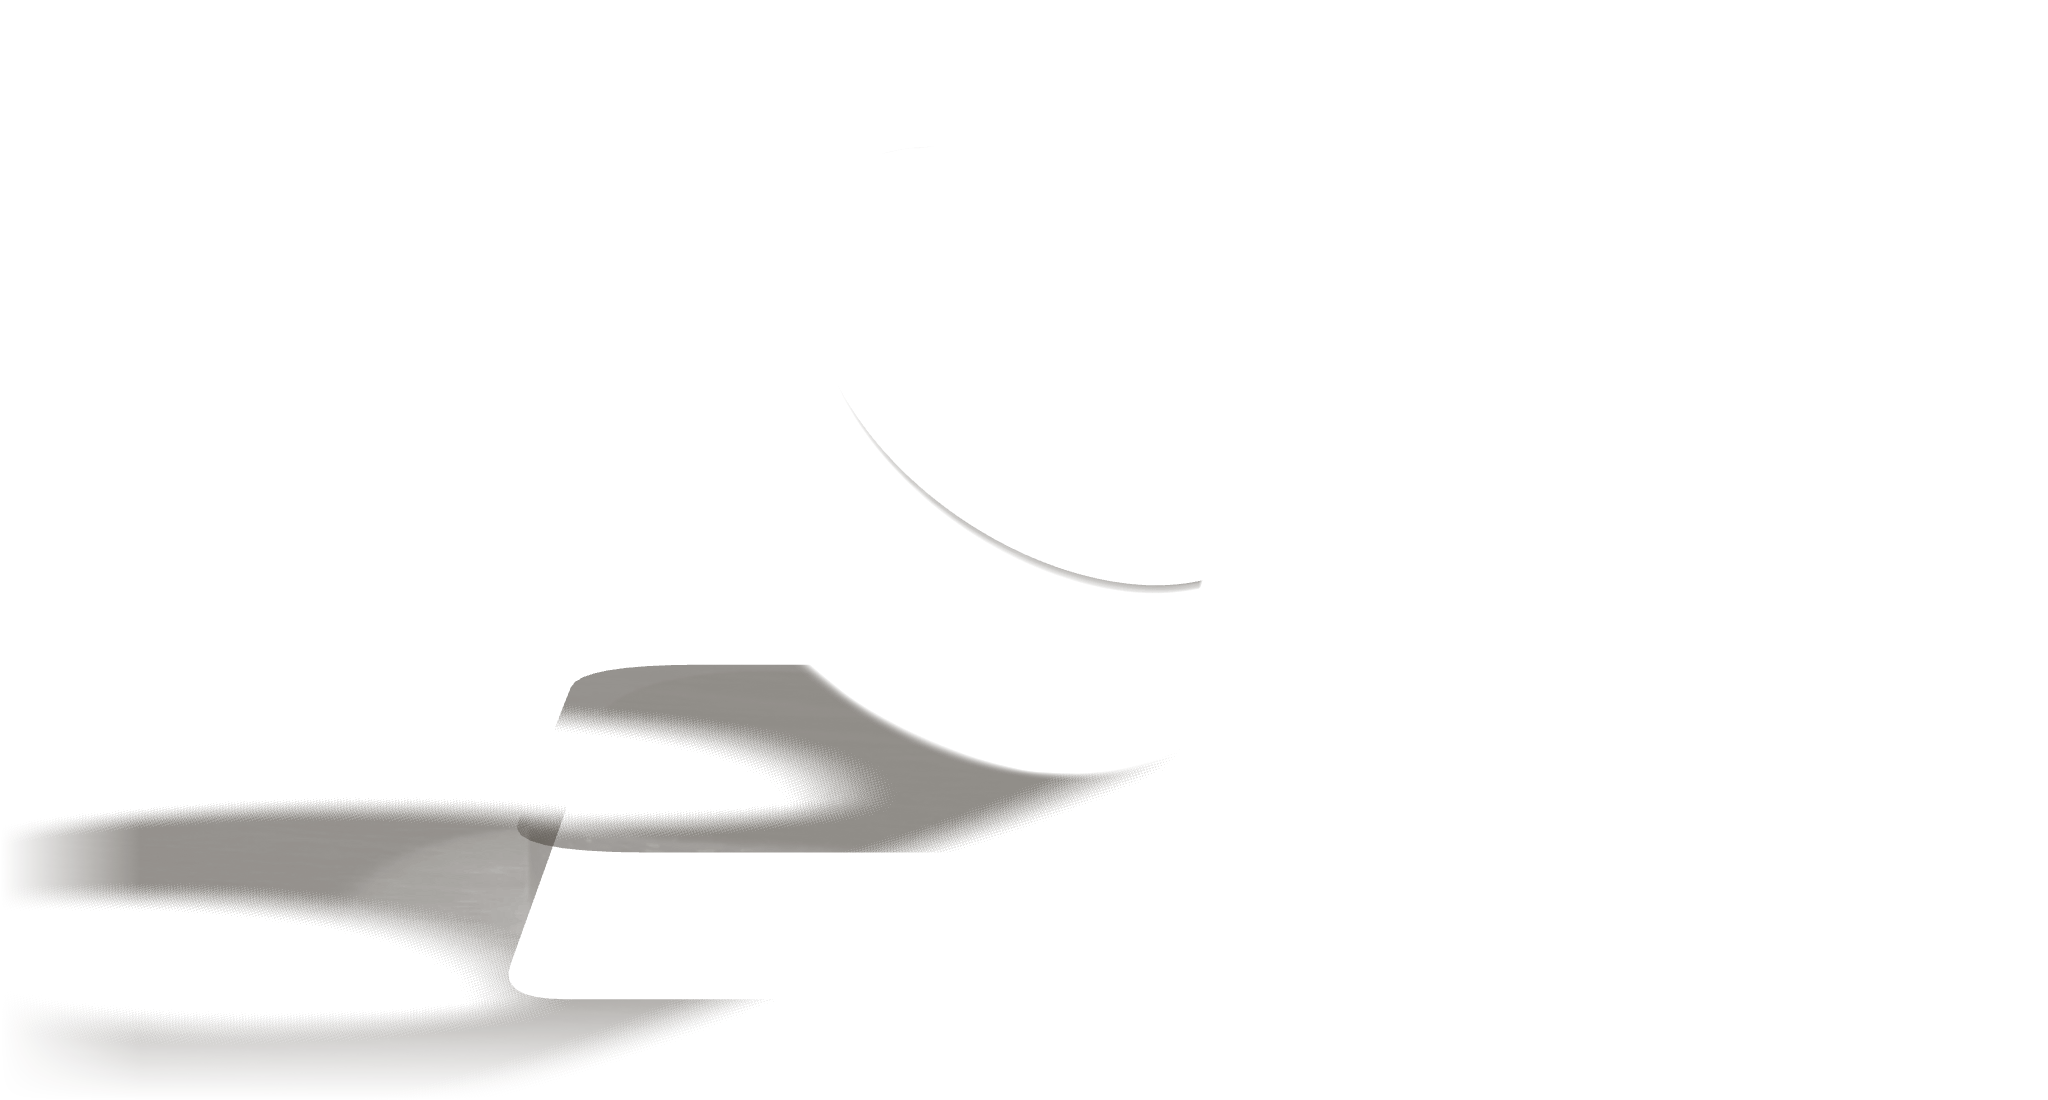
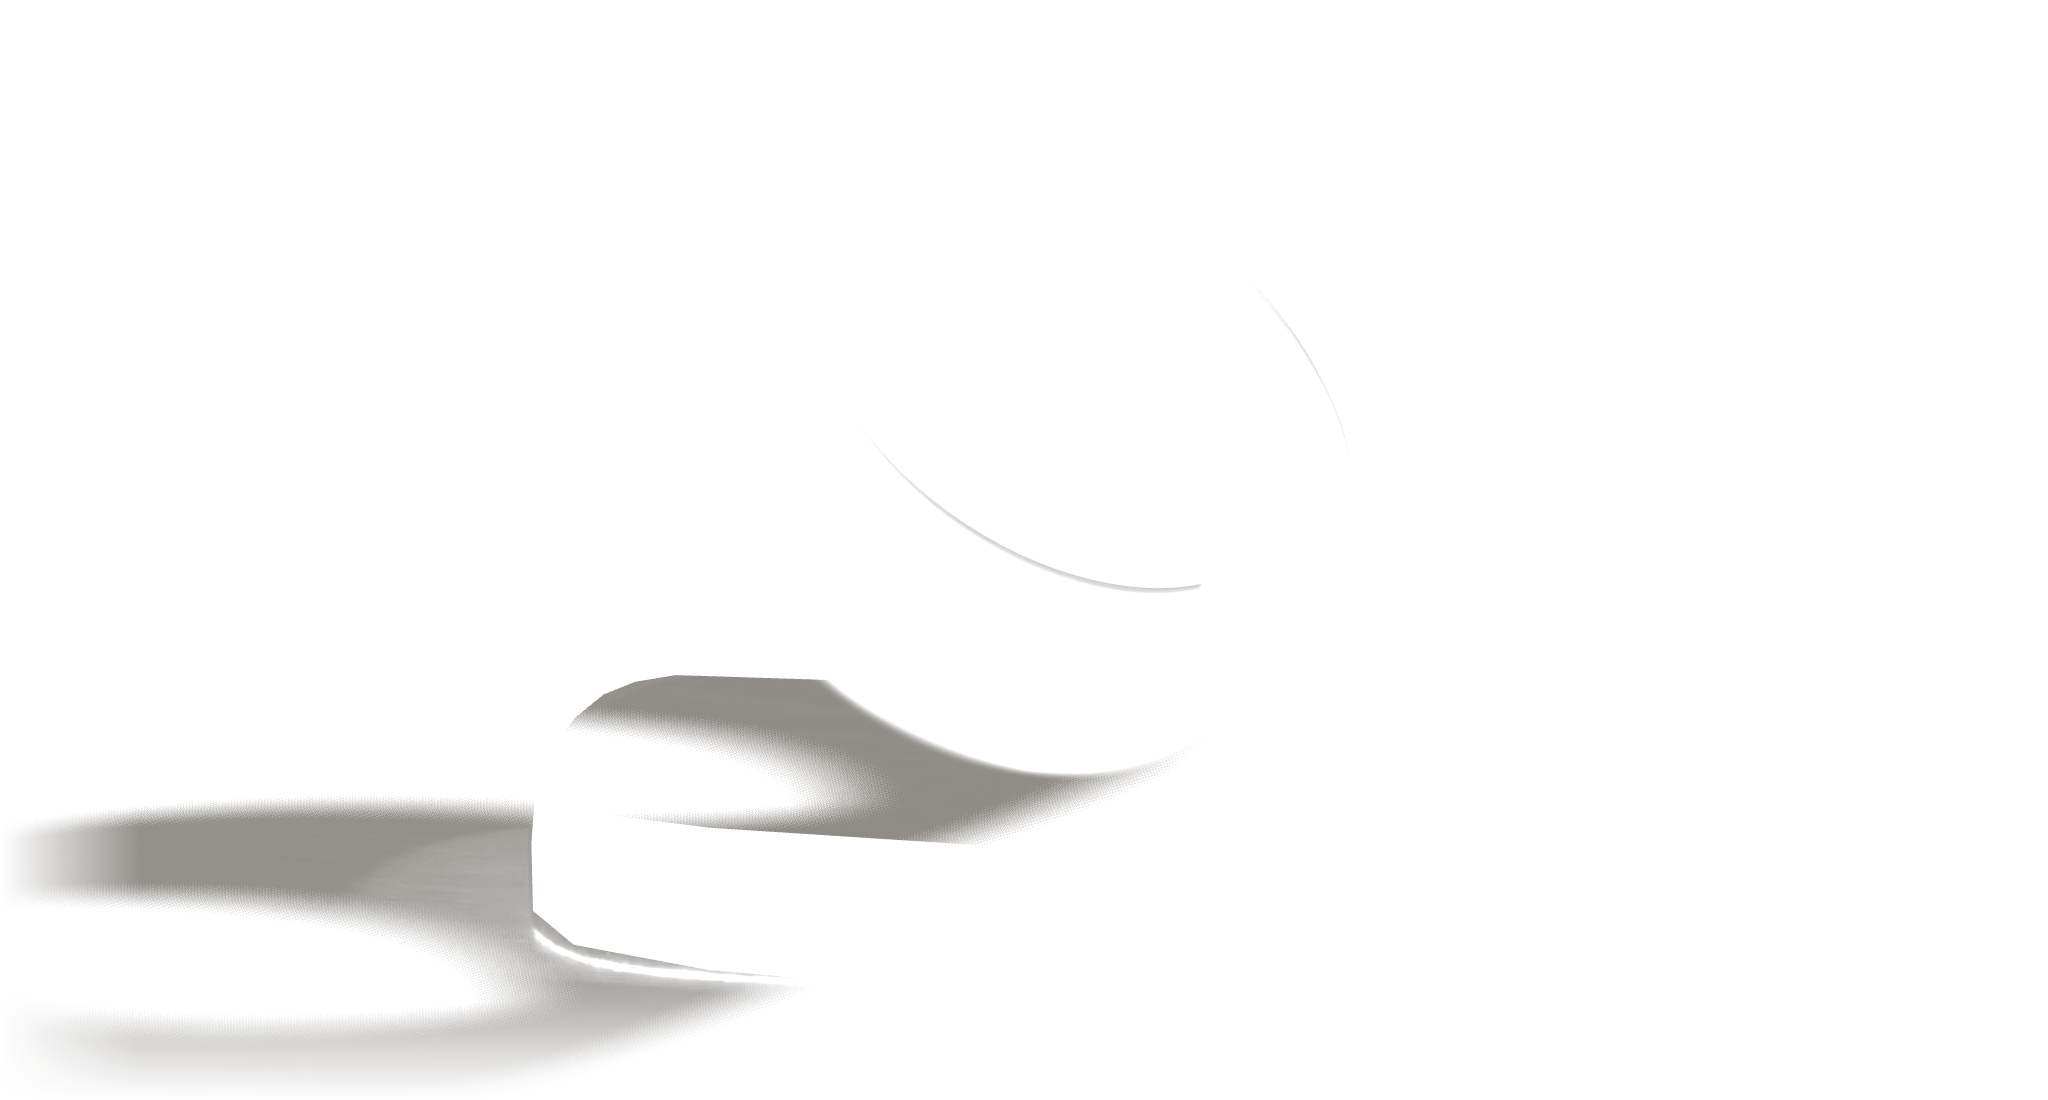
fix(web-v2): D-178 hero shadow — receivers masked by the pedestal's outline traced from the photo
The PM review found a hard rectangular/diagonal patch above-left of the
pedestal: the top receiver was a rounded rectangle on a tilted plane,
which does not match the photo's perspective outline, so it spilled past
the real top-left corner onto the desk. Now both receivers (pedestal top
plane, desk plane one pedestal height lower) are large planes limited in
screen space by stencil masks traced from the photo (heroBg.pedestal.top
and .body): shadow on the top face only inside the top outline, on the
desk only outside the silhouette, none on the visible sides. Masks
follow the photo's cover size and zoom. Fallback shadow still re-rendered
from the new pass.

diff --git a/web-v2/src/scripts/ring/stage.ts b/web-v2/src/scripts/ring/stage.ts
@@ -16,6 +16,7 @@ import { DRACOLoader } from 'three/examples/jsm/loaders/DRACOLoader.js';
 import { EXRLoader } from 'three/examples/jsm/loaders/EXRLoader.js';
 import { RING_MODEL } from './model';
 import type { Pose } from './poses';
+import { heroBg } from '../../content/heroBg';
 
 const FOV = 30;
 
@@ -31,7 +32,7 @@ export interface RingStage {
 export async function createRingStage(canvas: HTMLCanvasElement): Promise<RingStage | null> {
   let renderer: THREE.WebGLRenderer;
   try {
-    renderer = new THREE.WebGLRenderer({ canvas, antialias: true, alpha: true, powerPreference: 'high-performance' });
+    renderer = new THREE.WebGLRenderer({ canvas, antialias: true, alpha: true, stencil: true, powerPreference: 'high-performance' });
   } catch {
     return null;
   }
@@ -164,62 +165,65 @@ export async function createRingStage(canvas: HTMLCanvasElement): Promise<RingSt
   shadowSun.shadow.bias = -0.0005;
   scene.add(shadowSun, shadowSun.target);
   const catcherMat = new THREE.ShadowMaterial({ color: 0x1c140b, opacity: 0, transparent: true, depthWrite: false });
-  // D-177: a rounded rectangle like the pedestal top (unit size, scaled per frame), so the shadow
-// stops at the pedestal's own edges
-const catcherShape = (() => {
-  const r = 0.14;
-  const sh = new THREE.Shape();
-  sh.moveTo(-0.5 + r, -0.5);
-  sh.lineTo(0.5 - r, -0.5);
-  sh.quadraticCurveTo(0.5, -0.5, 0.5, -0.5 + r);
-  sh.lineTo(0.5, 0.5 - r);
-  sh.quadraticCurveTo(0.5, 0.5, 0.5 - r, 0.5);
-  sh.lineTo(-0.5 + r, 0.5);
-  sh.quadraticCurveTo(-0.5, 0.5, -0.5, 0.5 - r);
-  sh.lineTo(-0.5, -0.5 + r);
-  sh.quadraticCurveTo(-0.5, -0.5, -0.5 + r, -0.5);
-  return new THREE.ShapeGeometry(sh, 8);
-})();
-const catcher = new THREE.Mesh(catcherShape, catcherMat);
+  /* D-178: two shadow receivers — the pedestal's top plane and the desk plane one pedestal height
+     lower, both large — limited in SCREEN space by stencil masks traced from the photo
+     (heroBg.pedestal): the top receiver draws only inside the top face, the desk receiver only
+     outside the pedestal's silhouette, the visible sides get neither. So the shadow follows the
+     photo's own outline: it runs over the top and on down onto the desk, with no patch or double. */
+  const stencilTest = (m: THREE.Material, ref: number) => {
+    m.stencilWrite = true; // enables the stencil test
+    m.stencilRef = ref;
+    m.stencilFunc = THREE.EqualStencilFunc;
+    m.stencilFail = THREE.KeepStencilOp;
+    m.stencilZFail = THREE.KeepStencilOp;
+    m.stencilZPass = THREE.KeepStencilOp;
+  };
+  const catcher = new THREE.Mesh(new THREE.PlaneGeometry(1, 1), catcherMat);
+  stencilTest(catcherMat, 1);
   catcher.receiveShadow = true;
   catcher.renderOrder = -1;
   catcher.visible = false;
   scene.add(catcher);
-  // D-178: the desk around the pedestal also takes the shadow, so it carries on past the pedestal's
-  // edge onto the desk (no cut line). Same tilt, one face height lower; a hole where the pedestal
-  // hides the desk (its footprint plus the part behind it up to the top's back edge).
-  const deskCatcher = new THREE.Mesh(new THREE.BufferGeometry(), catcherMat);
+  const deskMat = new THREE.ShadowMaterial({ color: 0x1c140b, opacity: 0, transparent: true, depthWrite: false });
+  stencilTest(deskMat, 0);
+  const deskCatcher = new THREE.Mesh(new THREE.PlaneGeometry(1, 1), deskMat);
   deskCatcher.receiveShadow = true;
   deskCatcher.renderOrder = -1;
   deskCatcher.visible = false;
   scene.add(deskCatcher);
-  let deskKey = '';
-  const roundRect = (path: THREE.Path, cx: number, cy: number, w: number, h: number, r: number) => {
-    const x0 = cx - w / 2, x1 = cx + w / 2, y0 = cy - h / 2, y1 = cy + h / 2;
-    path.moveTo(x0 + r, y0);
-    path.lineTo(x1 - r, y0);
-    path.quadraticCurveTo(x1, y0, x1, y0 + r);
-    path.lineTo(x1, y1 - r);
-    path.quadraticCurveTo(x1, y1, x1 - r, y1);
-    path.lineTo(x0 + r, y1);
-    path.quadraticCurveTo(x0, y1, x0, y1 - r);
-    path.lineTo(x0, y0 + r);
-    path.quadraticCurveTo(x0, y0, x0 + r, y0);
-  };
-  const deskGeometry = (pw: number, pd: number, back: number) => {
+  // masks: screen-facing shapes at z 0 (1 px = 1 unit there), drawn first, write only the stencil
+  const maskMat = (ref: number) =>
+    new THREE.MeshBasicMaterial({
+      colorWrite: false,
+      depthWrite: false,
+      depthTest: false,
+      stencilWrite: true,
+      stencilRef: ref,
+      stencilFunc: THREE.AlwaysStencilFunc,
+      stencilZPass: THREE.ReplaceStencilOp,
+    });
+  const bodyMask = new THREE.Mesh(new THREE.BufferGeometry(), maskMat(2)); // the sides: no shadow
+  const topMask = new THREE.Mesh(new THREE.BufferGeometry(), maskMat(1)); // the top face
+  bodyMask.renderOrder = -12;
+  topMask.renderOrder = -11;
+  bodyMask.visible = topMask.visible = false;
+  scene.add(bodyMask, topMask);
+  let maskKey = '';
+  /** photo px → screen units (origin at the centre, y up), with the photo's cover size and zoom */
+  const maskShape = (pts: number[][], W: number, H: number, zoom: number) => {
+    const ratio = heroBg.v1Ratio;
+    const cw = Math.max(W, H * ratio);
+    const ch = cw / ratio;
+    const ax = (heroBg.anchor.x - 0.5) * cw;
+    const ay = (heroBg.anchor.y - 0.5) * ch;
     const sh = new THREE.Shape();
-    const big = pw * 4;
-    sh.moveTo(-big, -big);
-    sh.lineTo(big, -big);
-    sh.lineTo(big, big);
-    sh.lineTo(-big, big);
-    sh.lineTo(-big, -big);
-    const hole = new THREE.Path();
-    // local +y runs back (away from the camera); the hole covers the footprint and the strip behind it
-    // a little larger than the top (the pedestal's sides flare slightly toward the foot)
-    roundRect(hole, 0, back / 2 + 0.1 * pd, pw * 1.05, pd * 0.8 + back, 0.15 * Math.min(pw, pd));
-    sh.holes.push(hole);
-    return new THREE.ShapeGeometry(sh, 8);
+    pts.forEach(([px, py], i) => {
+      const x = ax + ((px / 1672 - 0.5) * cw - ax) * zoom;
+      const y = ay + ((py / 941 - 0.5) * ch - ay) * zoom;
+      if (i === 0) sh.moveTo(x, -y);
+      else sh.lineTo(x, -y);
+    });
+    return new THREE.ShapeGeometry(sh);
   };
   // D-177: from the lamp (upper right, behind the ring), so the shadow falls left and forward, away from it
 const SHADOW_DIR = new THREE.Vector3(1.3, 0.8, -0.08).normalize(); // the lamp stands at the back of the desk
@@ -540,33 +544,34 @@ const SHADOW_DIR = new THREE.Vector3(1.3, 0.8, -0.08).normalize(); // the lamp s
     coldEdge.intensity = 34 * Math.min(1, Math.max(0, p.edge));
     const sh = Math.max(0, p.shadow);
     catcher.visible = sh > 0.005;
-    deskCatcher.visible = catcher.visible && p.shadowDrop > 0 && p.shadowW > 0;
+    const masked = catcher.visible && p.shadowDrop > 0 && p.shadowW > 0;
+    deskCatcher.visible = bodyMask.visible = topMask.visible = masked;
     shadowSun.castShadow = catcher.visible;
     if (catcher.visible) {
       catcher.position.set(p.shadowX * W, p.shadowY * H, 0);
       // D-177: the further the ring is above the pedestal, the lighter its shadow (a soft key light)
       const lift = Math.min(1, Math.abs(pivot.position.y - catcher.position.y) / (1.5 * w));
-      catcherMat.opacity = 0.6 * sh * (1 - 0.35 * lift);
+      catcherMat.opacity = deskMat.opacity = 0.6 * sh * (1 - 0.35 * lift);
       catcher.rotation.set(-Math.PI / 2 + 0.32, 0, 0); // the receiving top, foreshortened like the photo
-      // only the pedestal top receives it (no shadow past its edges); V1 size when not given
-      if (p.shadowW > 0) catcher.scale.set(p.shadowW * W, p.shadowD * H, 1);
-      else catcher.scale.set(w * 3.2, w * 2.2, 1);
-      if (deskCatcher.visible) {
-        const pw = p.shadowW * W;
-        const pd = p.shadowD * H;
+      if (masked) {
+        // D-178: both planes large; the stencil masks give them the photo's outline
+        catcher.scale.set(W * 4, H * 4, 1);
         const drop = p.shadowDrop * H;
-        // a desk point `back` units behind the footprint shows sin(0.32) of it higher on screen: the
-        // pedestal hides the desk up to the top's back edge, i.e. `drop` screen px above its foot
-        const back = drop / Math.sin(0.32);
-        const key = `${pw.toFixed(1)}|${pd.toFixed(1)}|${back.toFixed(1)}`;
-        if (key !== deskKey) {
-          deskKey = key;
-          deskCatcher.geometry.dispose();
-          deskCatcher.geometry = deskGeometry(pw, pd, back);
-        }
+        deskCatcher.scale.copy(catcher.scale);
         deskCatcher.position.set(catcher.position.x, catcher.position.y - drop, 0);
         deskCatcher.rotation.copy(catcher.rotation);
-      }
+        // the photo's zoom, from the pedestal width the hero passes (0.33 of the cover width)
+        const cw = Math.max(W, H * heroBg.v1Ratio);
+        const zoom = (p.shadowW * W) / (0.33 * cw);
+        const key = `${W}x${H}|${zoom.toFixed(4)}`;
+        if (key !== maskKey) {
+          maskKey = key;
+          bodyMask.geometry.dispose();
+          topMask.geometry.dispose();
+          bodyMask.geometry = maskShape(heroBg.pedestal.body, W, H, zoom);
+          topMask.geometry = maskShape(heroBg.pedestal.top, W, H, zoom);
+        }
+      } else catcher.scale.set(w * 3.2, w * 2.2, 1);
       shadowSun.target.position.copy(catcher.position);
       shadowSun.position.copy(catcher.position).addScaledVector(SHADOW_DIR, w * 4);
       const c = shadowSun.shadow.camera;

diff --git a/web-v2/src/content/heroBg.ts b/web-v2/src/content/heroBg.ts
@@ -12,6 +12,16 @@ export const heroBg = {
   v1Ratio: 1672 / 941,
   /** the pedestal top (fractions of the photo): zoom origin, landing point, contact shadow */
   anchor: { x: 0.496, y: 0.745 },
+  /**
+   * D-178: the pedestal traced in the photo (photo px of 1672 × 941). `top` = its top face, `body` =
+   * its whole silhouette (top + front + sides). The ring stage turns them into screen-space stencil
+   * masks: the shadow falls on the top face only inside `top`, on the desk only outside `body`, and
+   * not at all on the visible sides — so it matches the photo's own outline (no patch, no double).
+   */
+  pedestal: {
+    top: [[547.5, 727.5], [552, 712], [560, 700], [571, 686], [587.5, 672.5], [606, 665], [630, 661], [850, 668], [1075, 679], [1100, 688], [1110, 700], [1116, 717.5], [1090, 750], [1050, 767.5], [1020, 772.5], [820, 762], [650, 751], [575, 741.5], [550, 737.5]],
+    body: [[547.5, 727.5], [552, 712], [560, 700], [571, 686], [587.5, 672.5], [606, 665], [630, 661], [850, 668], [1075, 679], [1100, 688], [1110, 700], [1116, 717.5], [1115, 740], [1100, 790], [1060, 825], [1025, 840], [950, 855], [800, 848], [650, 835], [570, 820], [546, 800], [545, 760]],
+  },
   desktop: {
     srcset: '/hero/hero-warm-desk-960.webp 960w, /hero/hero-warm-desk-1672.webp 1672w',
     src: '/hero/hero-warm-desk-1672.webp',
